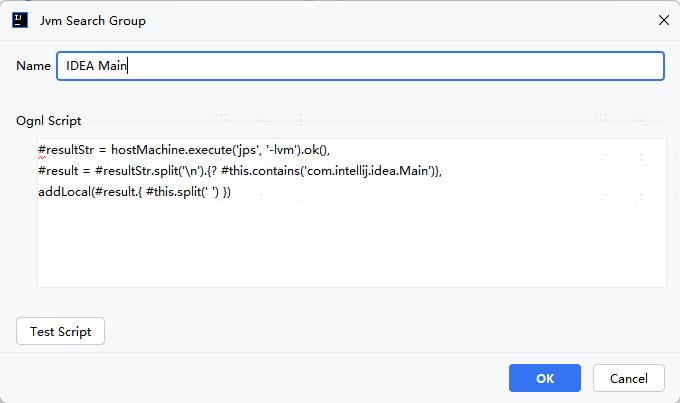
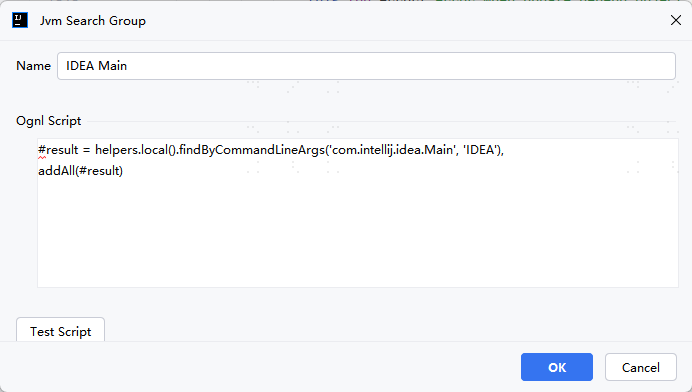
doc: v0.3.0 文档

diff --git a/docs/feature/search-group.md b/docs/feature/search-group.md
@@ -13,9 +13,8 @@ The search group allows you to use the [Ognl](https://commons.apache.org/dormant
 For example, you can use the following script to search for all JVMs that have `com.intellij.idea.Main` in their command line arguments.
 
 ```ognl
-#resultStr = hostMachine.execute('jps', '-lvm').ok(),
-#result = #resultStr.split('\n'). {? #this.contains('com.intellij.idea.Main')}, #result = #resultStr.split('\n'). {?
-addLocal(#result.{ #this.split(' ') })
+#result = helpers.local().findByCommandLineArgs('com.intellij.idea.Main', 'IDEA Main'),
+addAll(#result)
 ```
 
 ## Create a search group
@@ -36,19 +35,18 @@ After saving, the toolbar will show the search group we created, double click on
 
 ## Use the built-in functions
 
-[Ognl](https://commons.apache.org/dormant/commons-ognl/language-guide.html) Too complicated! Is there a simpler way? 
+In addition to the functions mentioned at the beginning, we have many other built-in methods, check out the [API documentation](https://arthas-ui-api.pages.dev/).
 
----
+You can start with [MyOgnlContext](https://arthas-ui-api.pages.dev/-arthas%20-u-i/io.github.vudsen.arthasui.script/-my-ognl-context/)
+which is the entire OGNL context, and you can use the methods and fields in it directly.
 
-There is! We provide some built-in functions to help you write scripts, for example the above script can be simplified to.
+[Here](https://arthas-ui-api.pages.dev/-arthas%20-u-i/io.github.vudsen.arthasui.script.helper/-local-jvm-search-helper/) you can see
+all the methods available in `helper.local()`, e.g. you can use the `findByPort` method to search by port: 
 
 ```ognl
-addAll(helpers.local().findByCommandLineArgs('com.intellij.idea.Main', 'IDEA'))
+#result = helpers.local().findByPort(8080, 'My App'),
+addAll(#result)
 ```
-
-This script will get all jvm's that have `com.intellij.idea.Main` in their command line arguments and set their name to `IDEA`.
-
-For all available contexts for Ognl, see [here](https://arthas-ui-api.pages.dev/-arthas%20-u-i/io.github.vudsen.arthasui.script/-my-ognl-context/).
 
 ## Next.
 

diff --git a/i18n/zh-CN/docusaurus-plugin-content-docs/current/feature/search-group.md b/i18n/zh-CN/docusaurus-plugin-content-docs/current/feature/search-group.md
@@ -11,9 +11,8 @@ sidebar_position: 1
 例如你可以使用下面的脚本来搜索所有命令行参数中有 `com.intellij.idea.Main` 的 JVM:
 
 ```ognl
-#resultStr = hostMachine.execute('jps', '-lvm').ok(),
-#result = #resultStr.split('\n').{? #this.contains('com.intellij.idea.Main')},
-addLocal(#result.{ #this.split(' ') })
+#result = helpers.local().findByCommandLineArgs('com.intellij.idea.Main', 'IDEA Main'),
+addAll(#result)
 ```
 
 ## 创建一个搜索组
@@ -34,19 +33,18 @@ addLocal(#result.{ #this.split(' ') })
 
 ## 使用内置函数
 
-[Ognl](https://commons.apache.org/dormant/commons-ognl/language-guide.html) 太复杂了！有没有更简单的方法? 
+除了开头提到的函数外，我们还有许多其它的内置方法，请查阅我的 [API 文档](https://arthas-ui-api.pages.dev/)。
 
----
+你可以从 [MyOgnlContext](https://arthas-ui-api.pages.dev/-arthas%20-u-i/io.github.vudsen.arthasui.script/-my-ognl-context/)
+开始，它是整个 OGNL 的上下文，你可以直接使用其中的方法和字段。
 
-有的！我们提供了一些内置函数来帮助你编写脚本，例如上面的脚本可以简化为:
+在[这里](https://arthas-ui-api.pages.dev/-arthas%20-u-i/io.github.vudsen.arthasui.script.helper/-local-jvm-search-helper/)可以看到 `helper.local()`
+中可以使用的所有方法，例如你可以使用 `findByPort` 方法来根据端口搜索:
 
 ```ognl
-addAll(helpers.local().findByCommandLineArgs('com.intellij.idea.Main', 'IDEA'))
+#result = helpers.local().findByPort(8080, 'My App'),
+addAll(#result)
 ```
-
-这个脚本将会获取所有命令行参数中有 `com.intellij.idea.Main` 的 jvm 并将其名称设置为 `IDEA`。
-
-关于 Ognl 所有可用的上下文，可以参考[这里](https://arthas-ui-api.pages.dev/-arthas%20-u-i/io.github.vudsen.arthasui.script/-my-ognl-context/)。
 
 ## 下一步
 
